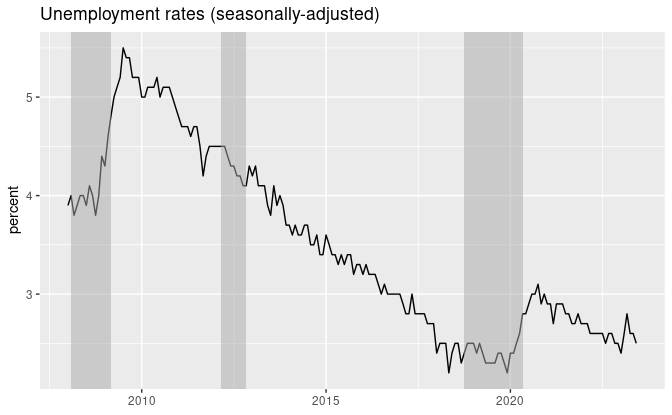
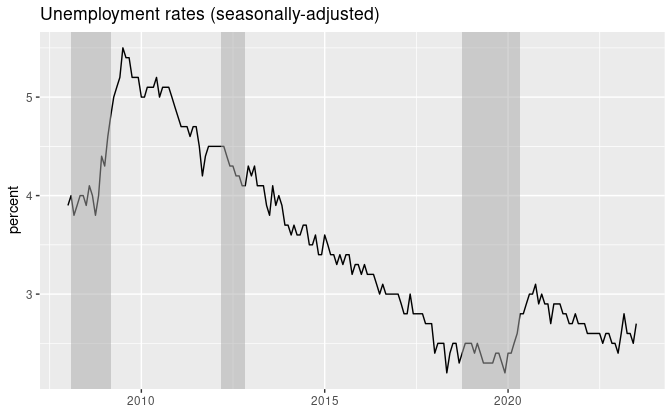
update July 2023 unemployment rate

diff --git a/README.md b/README.md
@@ -10,7 +10,7 @@ Mitsuo Shiota
 - [Suicide cases are bouncing back, but not as fast as the program
   suggests](#suicide-cases-are-bouncing-back-but-not-as-fast-as-the-program-suggests)
 
-Updated: 2023-08-18
+Updated: 2023-08-29
 
 ## Motivation
 
